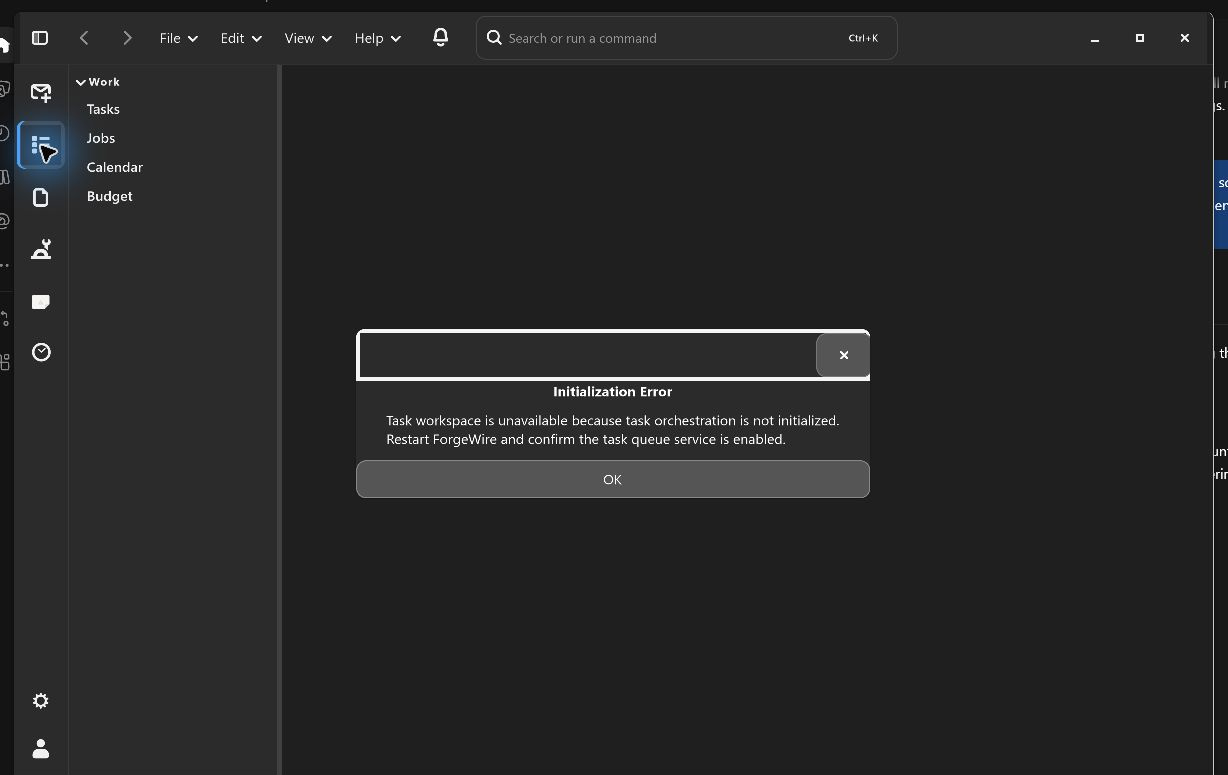
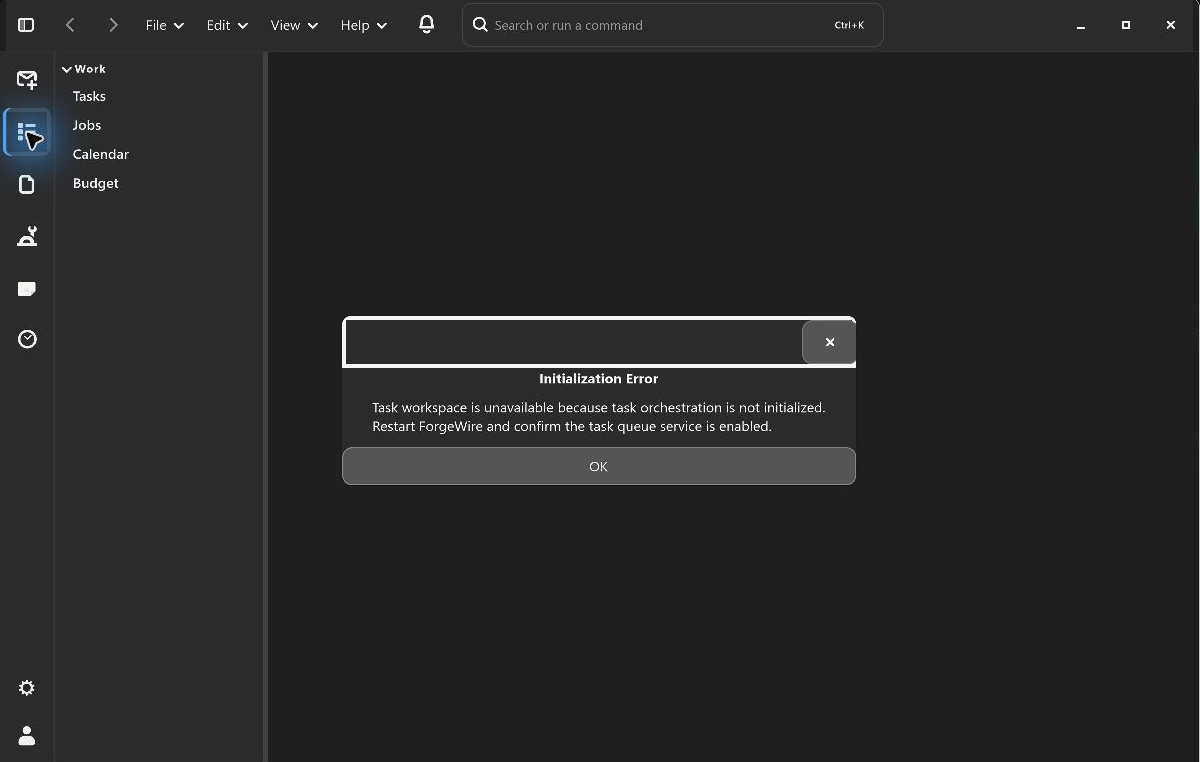
docs: crop workspace captures to app window

diff --git a/README.md b/README.md
@@ -138,11 +138,11 @@ The 12 screenshots cover every setup step. The introduction and preflight screen
 
 ### Signed-in workspace: earlier Tasks and Jobs state
 
-These five captures show the running ForgeWire development workspace on 2026-10-10 with the existing local account; the checked-out source reported version `0.2.0`. They predate the scheduler-state change below. Tasks and Jobs showed initialization-error dialogs in that run. The three full-window images are cropped above the status footer to remove the local account name and provider/voice settings. The two close-ups contain only the dialogs.
+These five captures show the running ForgeWire development workspace on 2026-10-10 with the existing local account; the checked-out source reported version `0.2.0`. They predate the scheduler-state change below. Tasks and Jobs showed initialization-error dialogs in that run. The three full-window images are cropped to the ForgeWire application window and above the status footer, removing the local account name, provider/voice settings, and surrounding desktop. The two close-ups contain only the dialogs.
 
 ![ForgeWire development workspace showing the Work navigation and pre-remediation task initialization error](assets/screenshots/workspace-2026-10-10/01-work-task-initialization-error.jpg)
 
-*Earlier Tasks view, captured on 2026-10-10. The status footer is cropped to remove local account and provider details.*
+*Earlier Tasks view, captured on 2026-10-10. The application-window crop removes the status footer and surrounding desktop.*
 
 ![Close capture of the ForgeWire task initialization error dialog](assets/screenshots/workspace-2026-10-10/01b-work-task-initialization-dialog.jpg)
 
@@ -150,11 +150,11 @@ These five captures show the running ForgeWire development workspace on 2026-10-
 
 ![ForgeWire Work area after dismissing the task initialization error](assets/screenshots/workspace-2026-10-10/02-work-after-error-dialog.jpg)
 
-*After dismissing the earlier Tasks dialog, the Work content area was blank in this capture. The status footer is cropped.*
+*After dismissing the earlier Tasks dialog, the Work content area was blank in this capture. The application-window crop removes the status footer and surrounding desktop.*
 
 ![ForgeWire development workspace showing the Jobs navigation and pre-remediation scheduling error](assets/screenshots/workspace-2026-10-10/03-work-jobs-scheduling-error.jpg)
 
-*Earlier Jobs view, captured on 2026-10-10. The status footer is cropped to remove local account and provider details.*
+*Earlier Jobs view, captured on 2026-10-10. The application-window crop removes the status footer and surrounding desktop.*
 
 ![Close capture of the ForgeWire Jobs scheduling error dialog](assets/screenshots/workspace-2026-10-10/03b-work-jobs-error-dialog.jpg)
 
